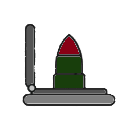
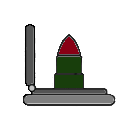
Add files via upload

diff --git a/game.js b/game.js
@@ -67,7 +67,8 @@ const buildings = [
     {
         name: "Base",
         type: "base",
-        icon: "",
+        icon: 'Images/barracks.png',
+        range: 10000000
     },
     {
         name: "Missilesilo",
@@ -77,10 +78,10 @@ const buildings = [
     {
         name: "Airdefense",
         type: "defense",
-        icon: ""
+        icon: 'Images/target.png'
     }
 ]
-
+let silos = [];
 let targets = [];
 
 var BaseIcon = L.icon({
@@ -100,21 +101,26 @@ function createIcon(url){
 }
 
 
-let base = L.marker([47.3769, 8.5417], { icon: BaseIcon })
-    .addTo(map)
-    .bindPopup("Base");
+// let base = L.marker([47.3769, 8.5417], { icon: BaseIcon })
+//     .addTo(map)
+//     .bindPopup("Base");
 
 let selectedMissile;
 let selectedBuilding;
+let selectedSilo;
 const viewer = document.getElementById("modelViewer");
 const menu_missile = document.getElementById("menu_missile");
 const menu_building = document.getElementById("menu_building");
+const menu_silo = document.getElementById("menu_silo");
 const missileList = document.getElementById("missileList");
+const searchField = document.getElementById("searchField");
 let previewRadius;
 let rangeCircle;
 let selectedElement;
 let previewCenter;
 let target;
+let menuSelected = "building";
+let base;
 
 function createList(list){
     missileList.innerHTML = "";
@@ -136,7 +142,7 @@ function createList(list){
             name.textContent = element.name;
             type.textContent = element.type;
             
-            if(list === missiles){
+            if(menuSelected === "missile"){
                 selectedMissile = element;
                 selectedBuilding = null;
 
@@ -148,7 +154,7 @@ function createList(list){
                 range.textContent = element.range;
 
                 if(previewRadius){
-                    map.removeLayer(previewRadius);
+                     map.removeLayer(previewRadius);                    
                     previewRadius = null;
                 }
                 previewRadius = L.circle([0, 0], {
@@ -169,17 +175,30 @@ function createList(list){
                     radius: 2,
                 }).addTo(map);
 
+                
                 if(rangeCircle){
                     map.removeLayer(rangeCircle);
+                    
                     rangeCircle = null;
                 }
-                rangeCircle = L.circle(base.getLatLng(), {
-                    color: 'green',
-                    fillColor: '#0fa11b',
-                    fillOpacity: 0.3,
-                    radius: selectedMissile.range
-                }).addTo(map);
-            } else if(list === buildings){
+
+                if(selectedMissile && selectedSilo){
+                    rangeCircle = L.circle(selectedSilo.marker.getLatLng(), {
+                        color: 'green',
+                        fillColor: '#0fa11b',
+                        fillOpacity: 0.3,
+                        radius: selectedMissile.range
+                    }).addTo(map);
+                    
+                }
+                else {
+                    alert("Bitte zuerst ein Silo auswählen!");
+                }
+                    
+                    
+                
+                
+            } else if(menuSelected === "building"){
                 selectedBuilding = element;
                 selectedMissile = null;
 
@@ -199,6 +218,8 @@ function createList(list){
                     map.removeLayer(rangeCircle);
                     rangeCircle = null;
                 }
+            } else if(menuSelected === "silo"){
+                selectedSilo = element;
             }
 
             if(element.src) viewer.src = element.src;
@@ -227,41 +248,59 @@ function createList(list){
 
 // Wenn du auf die Karte klickst, füge einen Marker hinzu
 map.on('click', function(e) {
-    let distance = map.distance(base.getLatLng(), e.latlng);
-    if(selectedMissile){
-        if(distance < selectedMissile.range){
+    if(base != null){
+        
+        if(selectedMissile){
+            let distance = map.distance(selectedSilo.marker.getLatLng(), e.latlng);
+            if(distance < selectedMissile.range){
 
-        if(previewRadius){
-            let radius = L.circle(e.latlng, {
-                color: 'red',
-                fillColor: '#f03',
-                fillOpacity: 0.3,
-                radius: selectedMissile.radius,
-                weight: 1
-            }).addTo(map);
-            target = radius;
-            targets.push(target);
-        }
-    
-        if(previewCenter){
-            L.circle(e.latlng,{
-                color: 'red',
-                fillColor: '#f03',
-                radius: 4,
-                weight: 1
-            }).addTo(map);
-        }
+                if(previewRadius){
+                    radius = L.circle(e.latlng, {
+                        color: 'red',
+                        fillColor: '#f03',
+                        fillOpacity: 0.3,
+                        radius: selectedMissile.radius,
+                        weight: 1
+                    }).addTo(map);
+                    target = radius;
+                    targets.push(target);
+                }
+            
+                if(previewCenter){
+                    L.circle(e.latlng,{
+                        color: 'red',
+                        fillColor: '#f03',
+                        radius: 4,
+                        weight: 1
+                    }).addTo(map);
+                }
 
-        map.removeLayer(previewCenter);
-        previewCenter = null;
-        map.removeLayer(previewRadius);
-        previewRadius = null;
-    }
+                map.removeLayer(previewCenter);
+                previewCenter = null;
+                map.removeLayer(previewRadius);
+                previewRadius = null;
+            }
+        }
+        
     }
 
     if(selectedBuilding){
         let icon = createIcon(selectedBuilding.icon)
-        L.marker(e.latlng, {icon: icon}).addTo(map);
+
+        if(selectedBuilding.name === "Base"){
+            if(base) map.removeLayer(base);
+            base = L.marker(e.latlng, {icon: icon}).addTo(map);
+        } else if(selectedBuilding.name === "Missilesilo"){
+            let siloMarker = L.marker(e.latlng, {icon: icon}).addTo(map);
+            let silo = {
+                name: selectedBuilding.name + " " + (silos.length + 1),
+                marker: siloMarker
+            }
+            silos.push(silo);
+        } else {
+            L.marker(e.latlng, {icon: icon}).addTo(map);
+        }
+        
     }
 });
 
@@ -287,29 +326,7 @@ map.on('contextmenu', function(e){
     tempMarker = L.marker(e.latlng).addTo(map);
 });
 
-document.querySelectorAll('#contextMenu .menu-item').forEach(item => {
-    item.addEventListener('click', () => {
-        const menu = document.getElementById('contextMenu');
-        const lat = parseFloat(menu.dataset.lat);
-        const lng = parseFloat(menu.dataset.lng);
 
-        const type = item.dataset.type;
-
-        let icon;
-        if(type === 'base'){
-            icon = L.icon({iconUrl: 'Images/barracks.png', iconSize:[20,20], iconAnchor:[10,10]});
-        }
-        else if(type === 'camp')
-        {
-            icon = L.icon({iconUrl: 'Images/target.png', iconSize:[20,20], iconAnchor:[10,10]});
-        }
-
-        L.marker([lat, lng], {icon: icon}).addTo(map);
-
-        map.removeLayer(tempMarker);
-        menu.style.display = 'none';
-    })
-})
 
 
 map.on('mousemove', (e) => {
@@ -334,7 +351,7 @@ map.on('mouseout', () => {
 //lineare interpolation
 function lerp(a, b, t){ return a + (b - a) * t; }
 function launchMissile(start, target, durationSec = 3){
-    const startLatLng = start.getLatLng();
+    const startLatLng = start.marker.getLatLng();
     const targetLatLng = target.getLatLng();
 
     let missileIcon = L.icon({iconUrl: 'Images/missile.png', iconSize:[20,20], iconAnchor:[10,10]});
@@ -372,21 +389,51 @@ launchBtn.addEventListener('click', () =>{
     }
     if(target){
         targets.forEach((t) => {
-            launchMissile(base, t, 3);
+            launchMissile(selectedSilo, t, 3);
         })
         targets = [];
     }
     
 });
 
-createList(missiles);
+createList(buildings);
 
 menu_missile.addEventListener('click', () => {
     createList(missiles);
+    menuSelected = "missile";
 })
 
 menu_building.addEventListener('click', () => {
     createList(buildings);
+    menuSelected = "building";
+})
+
+menu_silo.addEventListener('click', () => {
+    createList(silos);
+    menuSelected = "silo";
+})
+
+searchField.addEventListener('input', () =>{
+    const input = searchField.value.toLowerCase();
+    const newList = [];
+
+    if(menuSelected === "missile"){
+        missiles.forEach((element) => {
+            let name = element.name.toLowerCase();
+            if(name.includes(input)){
+                newList.push(element);
+            }
+        })
+        createList(newList);
+    }else if(menuSelected === "building"){
+        buildings.forEach((element) =>{
+            let name = element.name.toLowerCase();
+            if(name.includes(input)){
+                newList.push(element);
+            }
+        })
+        createList(newList);
+    }
 })
 
 // function menu_building(){

diff --git a/game.html b/game.html
@@ -15,6 +15,7 @@
             <div id="menu-Container">
                 <div id="menu_missile" class="menu_block">Missiles</div>
                 <div id="menu_building" class="menu_block">Buildings</div>
+                <div id="menu_silo" class="menu_block">Silos</div>
             </div>
             <div id="search-Container">
                 <input id="searchField" type="search" placeholder="Search...">

diff --git a/game.css b/game.css
@@ -165,4 +165,9 @@ main{
 
 #menu_building{
     border-left: 2px solid black;
+    border-right: 2px solid black;
+}
+
+#menu_silo{
+    border-left: 2px solid black;
 }
